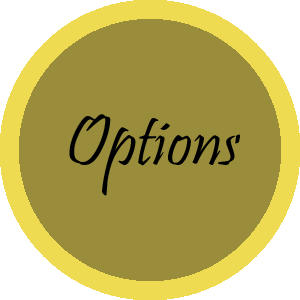
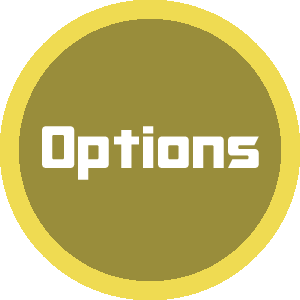
EVERYTHING

Changed region(s): [[0.12, 0.36, 0.87, 0.66]]

diff --git a/Assets/MainMenuScript.cs b/Assets/MainMenuScript.cs
@@ -8,6 +8,8 @@ public class MainMenuScript : MonoBehaviour {
     public Texture2D creditsTexture;
     public Texture2D exitTexture;
     public Texture2D sparkleTexture;
+    public Texture2D menuBar;
+    public Texture2D titleBar;
     
     public float gap_from_top_ratio;
     public float outer_ratio_gap;
@@ -65,6 +67,9 @@ public class MainMenuScript : MonoBehaviour {
             
         if (GUI.Button (new Rect (gap * 4 + icon_dim * 3, Screen.height * gap_from_top_ratio + icon_dim * outer_ratio_gap, icon_dim, icon_dim), exitTexture, ""))
             ExitButton();
+            
+        GUI.DrawTexture(new Rect(0,0,Screen.width,Screen.height), menuBar);
+        GUI.DrawTexture(new Rect(0,0,Screen.width,Screen.height), titleBar);
     }
     
     void StartButton() {
@@ -76,7 +81,7 @@ public class MainMenuScript : MonoBehaviour {
     }
     
     void CreditsButton() {
-        int blarg;
+        Application.LoadLevel("ultimate_credits_chucknorris"); 
     }
     
     void ExitButton() {

diff --git a/Assets/Options.cs b/Assets/Options.cs
@@ -7,6 +7,8 @@ public class Options : MonoBehaviour {
     public Texture2D easyGameTexture;
     public Texture2D backTexture;
     public Texture2D sparkleTexture;
+    public Texture2D menuBar;
+    public Texture2D titleBar;
     
     public float gap_from_top_ratio;
     public float outer_ratio_gap;
@@ -66,6 +68,9 @@ public class Options : MonoBehaviour {
             
         if (GUI.Button (new Rect (gap * 4 + icon_dim * 3, Screen.height * gap_from_top_ratio + icon_dim * outer_ratio_gap, icon_dim, icon_dim), backTexture, ""))
             BackButton();
+            
+        GUI.DrawTexture(new Rect(0,0,Screen.width,Screen.height), menuBar);
+        GUI.DrawTexture(new Rect(0,0,Screen.width,Screen.height), titleBar);
     }
     
     void HardButton() {
